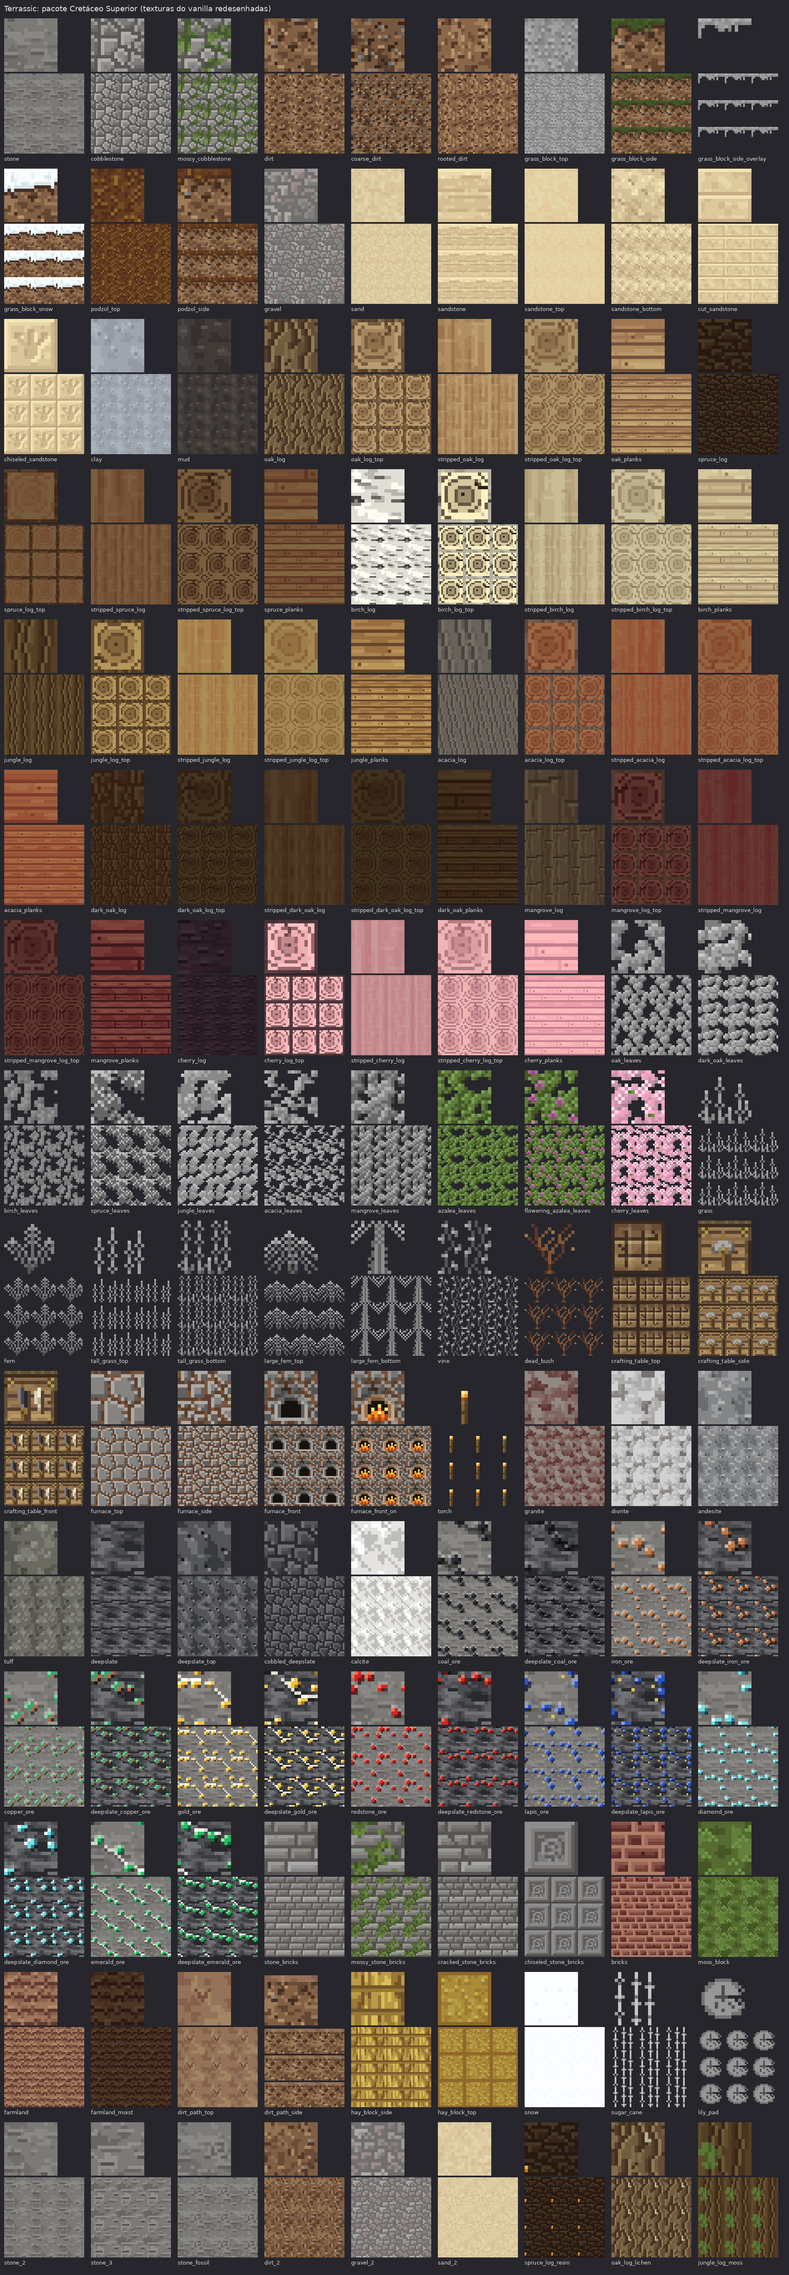
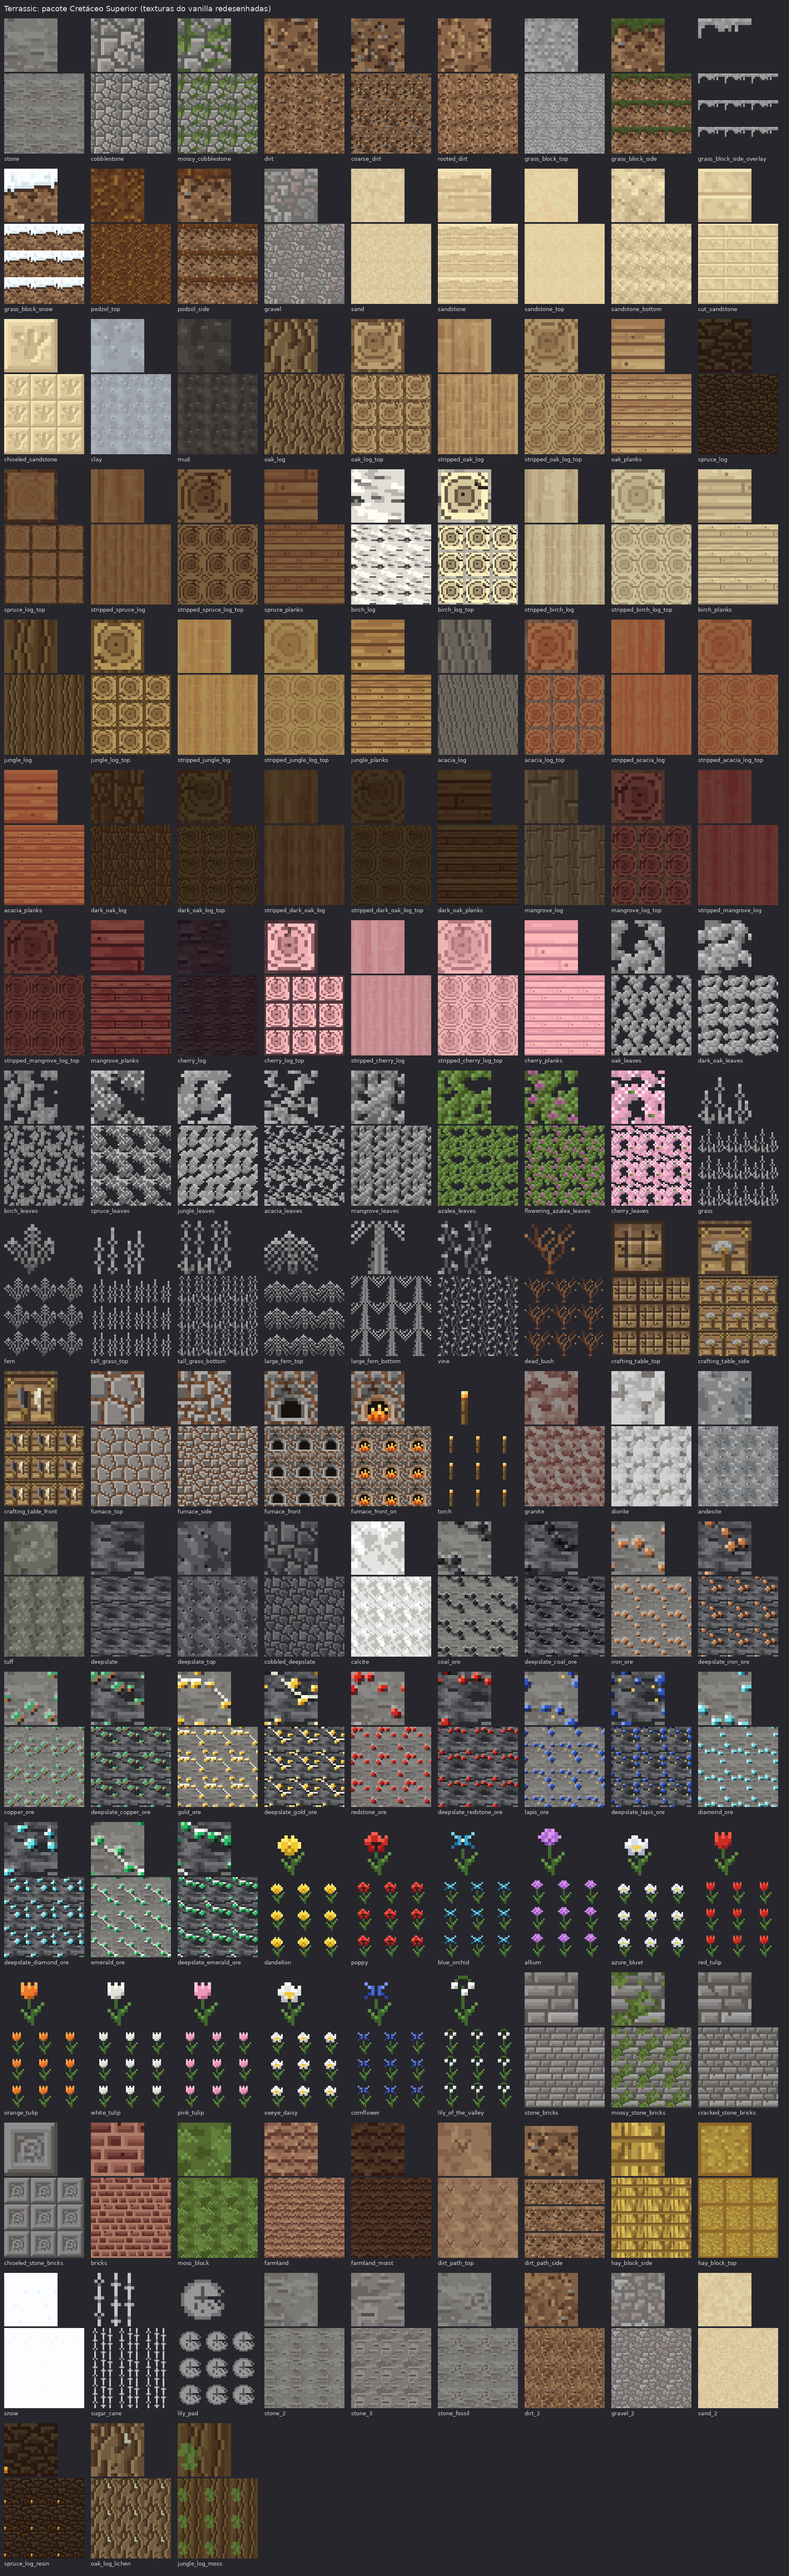
Pacote do Cretáceo, lote 3c: flores
- As 12 flores pequenas do vanilla em formas das primeiras plantas com
  flor do Cretáceo: taça de tépalas como a magnólia (dente-de-leão), flor
  aberta de cinco pétalas (papoula, flor-azul, margarida), estrela de
  tépalas finas (orquídea azul, centáurea), umbela (alho), sininhos
  (lírio-do-vale) e tulipa fechada (as quatro tulipas). Cada uma mantém
  a cor que dá o corante, num caule fino com duas folhas.
- Prévia: art/texpack/previews/cretaceo_flores.png.

diff --git a/tools/texpack/flowers.py b/tools/texpack/flowers.py
@@ -1,0 +1,106 @@
+"""TX3c: the flowers of the Late Cretaceous pack. Flowering plants were young then: magnolia-like cups of many
+tepals, simple open blossoms, small umbels and bells. Each vanilla flower keeps its colour (dyes still come
+from it) but takes one of these early shapes, on a slender stem with one or two leaves. Hand-drawn grids:
+a light, b body, c shadow of the petals; o the eye; s stem; l leaf light, k leaf dark."""
+import numpy as np
+from PIL import Image
+
+from tex import N
+
+BLOOMS = {
+    "cup": [          # magnolia-like: tepals cupped upwards
+        "..a.a..",
+        ".aabaa.",
+        "abbabba",
+        "abbobba",
+        ".bcbcb.",
+        "..ccc..",
+    ],
+    "open": [         # five spread petals and an eye
+        "..aa...",
+        ".abba.a",
+        "aabbaab",
+        "bbooobb",
+        ".cbobc.",
+        ".cc.cc.",
+    ],
+    "bells": [        # little bells hanging along an arching stalk
+        "..sss..",
+        ".s...s.",
+        "aa...aa",
+        "bc.s.bc",
+        "...aa..",
+        "...bc..",
+    ],
+    "umbel": [        # a ball of tiny flowers on one stalk
+        "..aba..",
+        ".abaab.",
+        "abbabba",
+        ".bacab.",
+        "..cbc..",
+        "...s...",
+    ],
+    "star": [         # narrow pointed tepals
+        "a.....a",
+        ".ab.ba.",
+        "..bob..",
+        ".cb.bc.",
+        "c.....c",
+        "...s...",
+    ],
+    "tulip": [        # a closed cup of three outer tepals
+        ".a.a.a.",
+        ".ababa.",
+        ".abbbb.",
+        ".bbbbc.",
+        "..bcc..",
+        "...s...",
+    ],
+}
+
+GREEN = {'s': (64, 104, 44), 'l': (98, 150, 66), 'k': (58, 96, 40)}
+
+FLOWERS = {
+    # name: (bloom, light, body, shadow, eye, stem top row of the bloom)
+    "dandelion": ("cup", (255, 236, 112), (240, 200, 48), (196, 148, 30), (176, 118, 26), 4),
+    "poppy": ("open", (238, 92, 72), (200, 40, 34), (140, 24, 26), (40, 30, 30), 3),
+    "blue_orchid": ("star", (120, 214, 236), (54, 168, 214), (32, 112, 160), (236, 236, 200), 3),
+    "allium": ("umbel", (214, 150, 236), (178, 104, 210), (124, 70, 160), (236, 200, 246), 2),
+    "azure_bluet": ("open", (246, 248, 252), (214, 222, 236), (168, 178, 200), (236, 210, 90), 4),
+    "red_tulip": ("tulip", (240, 86, 66), (204, 44, 36), (150, 30, 30), (204, 44, 36), 3),
+    "orange_tulip": ("tulip", (252, 170, 80), (236, 120, 40), (180, 84, 28), (236, 120, 40), 3),
+    "white_tulip": ("tulip", (250, 250, 244), (224, 226, 218), (178, 184, 176), (224, 226, 218), 3),
+    "pink_tulip": ("tulip", (250, 196, 216), (236, 150, 184), (190, 108, 144), (236, 150, 184), 3),
+    "oxeye_daisy": ("open", (252, 252, 246), (228, 230, 222), (184, 188, 178), (242, 196, 50), 3),
+    "cornflower": ("star", (120, 150, 236), (70, 104, 210), (44, 66, 150), (40, 40, 90), 3),
+    "lily_of_the_valley": ("bells", (252, 252, 248), (226, 230, 222), (180, 188, 176), (226, 230, 222), 1),
+}
+
+
+def flower(name):
+    bloom, a, b, c, o, top = FLOWERS[name]
+    img = np.zeros((N, N, 4), np.uint8)
+    col = dict(GREEN, a=a, b=b, c=c, o=o)
+
+    def put(x, y, ch):
+        if 0 <= x < N and 0 <= y < N and ch in col:
+            img[y, x, :3] = col[ch]
+            img[y, x, 3] = 255
+
+    rows = BLOOMS[bloom]
+    x0, y0 = 4, top
+    for j, row in enumerate(rows):
+        for i, ch in enumerate(row):
+            put(x0 + i, y0 + j, ch)
+    # stem from under the bloom to the ground, leaning a touch, with two leaves
+    sy = y0 + len(rows)
+    for y in range(sy, N):
+        x = 7 if y < 11 else 8
+        put(x, y, 's')
+    for x, y, ch in ((9, 11, 'l'), (10, 10, 'l'), (11, 9, 'l'), (9, 12, 'k'), (10, 11, 'k'),      # right leaf
+                     (7, 13, 'l'), (6, 12, 'l'), (5, 11, 'l'), (7, 14, 'k'), (6, 13, 'k')):   # left leaf
+        put(x, y, ch)
+    return Image.fromarray(img, "RGBA")
+
+
+ALL = {n: flower(n) for n in FLOWERS}

diff --git a/tools/texpack/build.py b/tools/texpack/build.py
@@ -11,7 +11,8 @@ Batch 2 adds the eight woods (bark, rings, stripped, planks, with rare log varia
 lichen on oak, moss on jungle), the leaves, the ground plants (horsetails and ferns), the crafting table, the
 furnace and the torch. Batch 3 adds the vanilla rocks (granite, diorite, andesite, tuff, deepslate, calcite)
 and the sixteen ores, in natural veins on the pack's own stone and deepslate, plus the chest. Batch 3b adds the
-building and ground blocks (stone bricks, bricks, moss, farmland, path, hay, snow, sugar cane, lily pad).
+building and ground blocks (stone bricks, bricks, moss, farmland, path, hay, snow, sugar cane, lily pad);
+batch 3c the twelve small flowers in early-angiosperm shapes.
 The pack name and description are lang keys of the mod (pack.terrassic.<era>), so they read in all three languages.
 """
 import json
@@ -26,6 +27,7 @@ import cretaceo as C  # noqa: E402
 import preview as P  # noqa: E402
 import leaves as LV  # noqa: E402
 import plants as PL  # noqa: E402
+import flowers as FL  # noqa: E402
 import masonry as MS  # noqa: E402
 import rocks as RK  # noqa: E402
 import tex as T  # noqa: E402
@@ -78,6 +80,9 @@ for _name, _img in list(LV.ALL.items()) + list(PL.ALL.items()) + list(WS.ALL.ite
 # batch 3: rocks and ores
 for _name, _img in RK.ALL.items():
     CRETACEO[_name] = (_img, True)
+# batch 3c: flowers (cutouts)
+for _name, _img in FL.ALL.items():
+    CRETACEO[_name] = (_img, False)
 # batch 3b: building and ground (cutouts and the path side are not seamless tiles)
 for _name, _img in MS.ALL.items():
     CRETACEO[_name] = (_img, _name not in ("sugar_cane", "lily_pad", "dirt_path_side", "chiseled_stone_bricks"))
@@ -181,7 +186,8 @@ def check(name, img, natural):
 # the workshop faces are drawings (tools on wood, a lit kiln, a torch), judged by eye rather than by the numbers
 # deep coal and iron: our deepslate holds fewer, smaller blebs than vanilla's big spots, by design
 OFF_TARGET = {"grass_block_side", "crafting_table_side", "crafting_table_front", "furnace_front_on", "torch",
-              "deepslate_coal_ore", "deepslate_iron_ore"}
+              "deepslate_coal_ore", "deepslate_iron_ore"} | set(FL.ALL)
+# flowers are small drawings whose colour is their dye: judged by eye, like the workshop
 
 
 def run_checks(table, extra):
@@ -375,6 +381,12 @@ def preview_batch3(era, table):
     items = [(n, P.tint(table[n][0], tints[n]) if n in tints else table[n][0]) for n in MS.ALL]
     save_png(P.sheet(items, f"Terrassic: pacote {NAMES[era]}, construção e chão", cols=8),
              os.path.join(PREVIEWS, f"{era}_construcao_chao.png"))
+    meadow = []
+    for n in FL.ALL:
+        bg = Image.new("RGBA", (16, 16), (110, 150, 80, 255))
+        bg.alpha_composite(table[n][0])
+        meadow.append((n, bg))
+    save_png(P.sheet(meadow, f"Terrassic: pacote {NAMES[era]}, flores", cols=6), os.path.join(PREVIEWS, f"{era}_flores.png"))
 
 
 def build(era, table, extra):

diff --git a/docs/TEXTURAS_ERA.md b/docs/TEXTURAS_ERA.md
@@ -137,6 +137,7 @@ sprites separados: o gerador já escreve as peças separadas para o porte.
 | TX2 | **Madeiras** das 8 árvores (casca própria de cada uma, anéis fora do centro com rachadura, descascado, tábuas lascadas com cavilha) com variantes raras de tronco (resina âmbar no abeto, líquen no carvalho, musgo na selva); **folhas** por formato de folha da espécie; **plantas** do Cretáceo (o capim vira cavalinhas com samambaias baixas, a samambaia grande vira samambaia-arborescente, o cipó vira samambaia trepadeira); **bancada** de tronco com ferramentas de pedra, sílex e osso; **fornalha** de pedras e barro com fuligem e brasas; **tocha** de resina. Baú no lote 3; a fogueira fica para depois (o desenho depende do mapeamento do modelo) | ✓ |
 | TX3 | **Rochas do vanilla** desenhadas pelo que são feitas (granito e diorito em cristais entrelaçados, andesito fino com fenocristais, tufo com lapilli, ardósia em lâminas, calcita com clivagem) e os **16 minérios** em veios naturais sobre a pedra e a ardósia do próprio pacote: carvão em camada, limonita enferrujada, malaquita com cobre nativo, ouro em veio de quartzo, cinábrio, lazurita com pirita, diamante em bolsão de kimberlito, esmeralda em veio de calcita | ✓ |
 | TX3b | **Construção e chão:** tijolos de pedra em fiadas lavradas à mão (com musgo, rachados e um entalhado com amonite), tijolos queimados em argamassa de cal, bloco de musgo, terra arada (seca e molhada), caminho batido com uma pegada de terópode, fardo de palha amarrado, neve; a cana-de-açúcar vira cavalinha gigante e a vitória-régia ganha folha entalhada com nervuras | ✓ |
+| TX3c | **Flores:** as 12 flores pequenas em formas das primeiras plantas com flor (taça de tépalas como a magnólia, flor aberta, sininhos, umbela, estrela, tulipa fechada), cada uma mantendo a cor que dá o corante | ✓ |
 | TX4 | Interface: botões, inventário, baús, fornalha, fundo dos menus, barra de itens, em couro, osso e pedra | ○ |
 | TX5 | Filtro da era (camada D) | ○ |
 | TX6 | Refazer os blocos do mod com o motor novo: a thread de blocos usa `tools/texpack/api.py` e `materials.py` (decisão do Rodrigo, 24/10) | 🔄 |

diff --git a/tools/texpack/README.md b/tools/texpack/README.md
@@ -30,6 +30,7 @@ O `build.py` falha se uma textura ficar a mais de 14 de brilho ou 20 de contrast
 | `plants.py`, `plantart.py` | Plantas em pixel art à mão (grades de texto) pintadas pelo ajuste: cavalinhas, samambaias, cipó |
 | `workshop.py` | Bancada, fornalha e tocha |
 | `masonry.py` | Construção e chão: fiadas de pedra (musgo, rachaduras, amonite entalhada), tijolos, musgo, terra arada, caminho com pegada, palha, neve, cana, vitória-régia |
+| `flowers.py` | As 12 flores pequenas em formas de angiosperma primitiva (taça de magnólia, aberta, sininhos, umbela, estrela, tulipa), mantendo a cor do corante |
 | `rocks.py` | Rochas do vanilla (cristais, lapilli, lâminas) e os 16 minérios em veios sobre a pedra e a ardósia do pacote |
 | `build.py` | Tabela textura do vanilla -> desenho, blockstates com variantes sorteadas, `pack.mcmeta`, `pack.png` e conferências |
 | `pack_lang.py` | Nome e descrição de cada pacote nos 3 idiomas (o `gen_resources.py` junta no lang do mod) |
